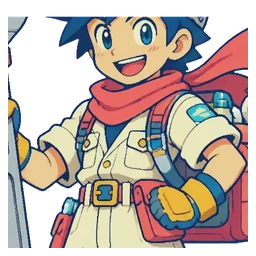
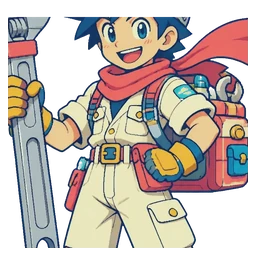
fix: reframe Rivet battle portraits

diff --git a/scripts/generate-authored-assets.test.py b/scripts/generate-authored-assets.test.py
@@ -145,6 +145,30 @@ class GenerateAuthoredAssetsTest(unittest.TestCase):
             self.assertGreater(size_fraction, 0)
             self.assertLessEqual(size_fraction, 1)
 
+    def test_rivet_portrait_crop_keeps_character_scale_below_the_approved_limit(self) -> None:
+        generator = load_generator()
+        source_path = (
+            PROJECT_ROOT
+            / "public"
+            / "assets"
+            / "characters"
+            / "hero-engineer"
+            / "full.webp"
+        )
+
+        with Image.open(source_path).convert("RGBA") as source:
+            visible_bounds = generator.alpha_content_bbox(source)
+
+        crop_box = generator.portrait_crop_box(
+            visible_bounds,
+            generator.PORTRAIT_FRAMES["hero-engineer"],
+        )
+        source_width = visible_bounds[2] - visible_bounds[0]
+        source_height = visible_bounds[3] - visible_bounds[1]
+        minimum_crop_size = round(min(source_width, source_height) * 0.70)
+
+        self.assertGreaterEqual(crop_box[2] - crop_box[0], minimum_crop_size)
+
     def test_portrait_crop_box_supports_an_off_center_frame(self) -> None:
         generator = load_generator()
 

diff --git a/scripts/generate-authored-assets.py b/scripts/generate-authored-assets.py
@@ -326,7 +326,7 @@ PORTRAITS = {
 
 
 PORTRAIT_FRAMES = {
-    "hero-engineer": (0.50, 0.18, 0.56),
+    "hero-engineer": (0.50, 0.18, 0.72),
     "cloud-courier": (0.48, 0.18, 0.56),
     "star-alchemist": (0.45, 0.18, 0.56),
     "owl-companion": (0.50, 0.24, 0.56),
